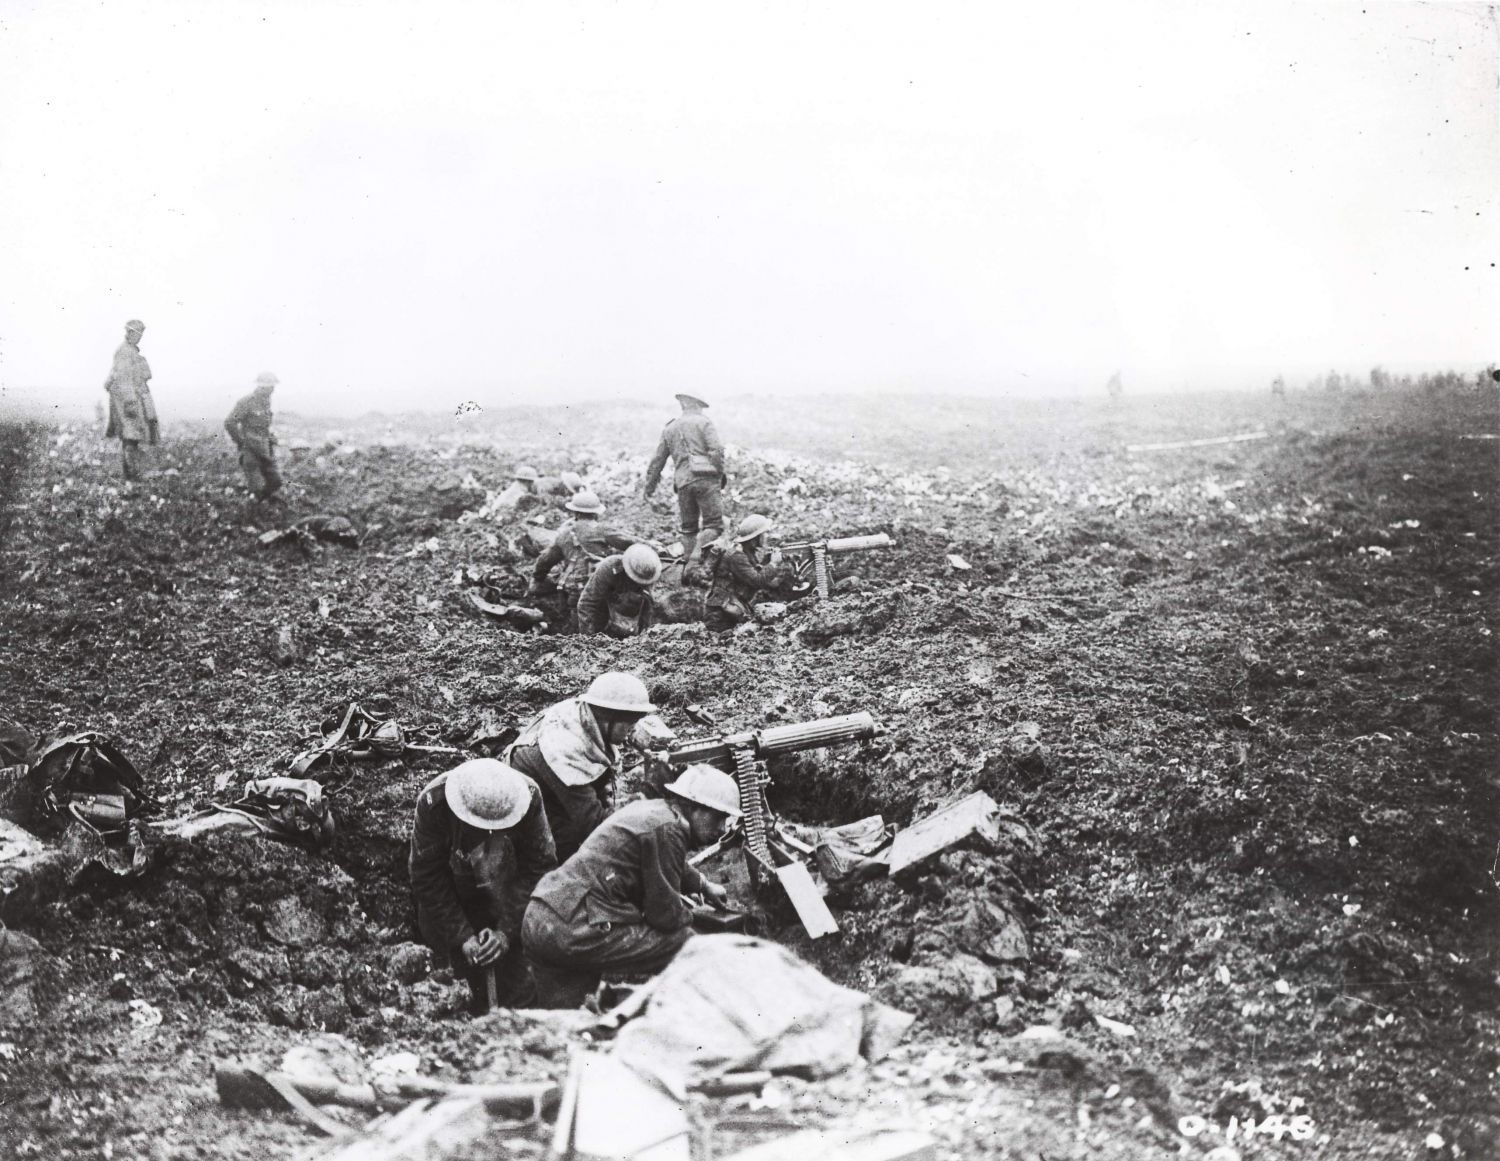
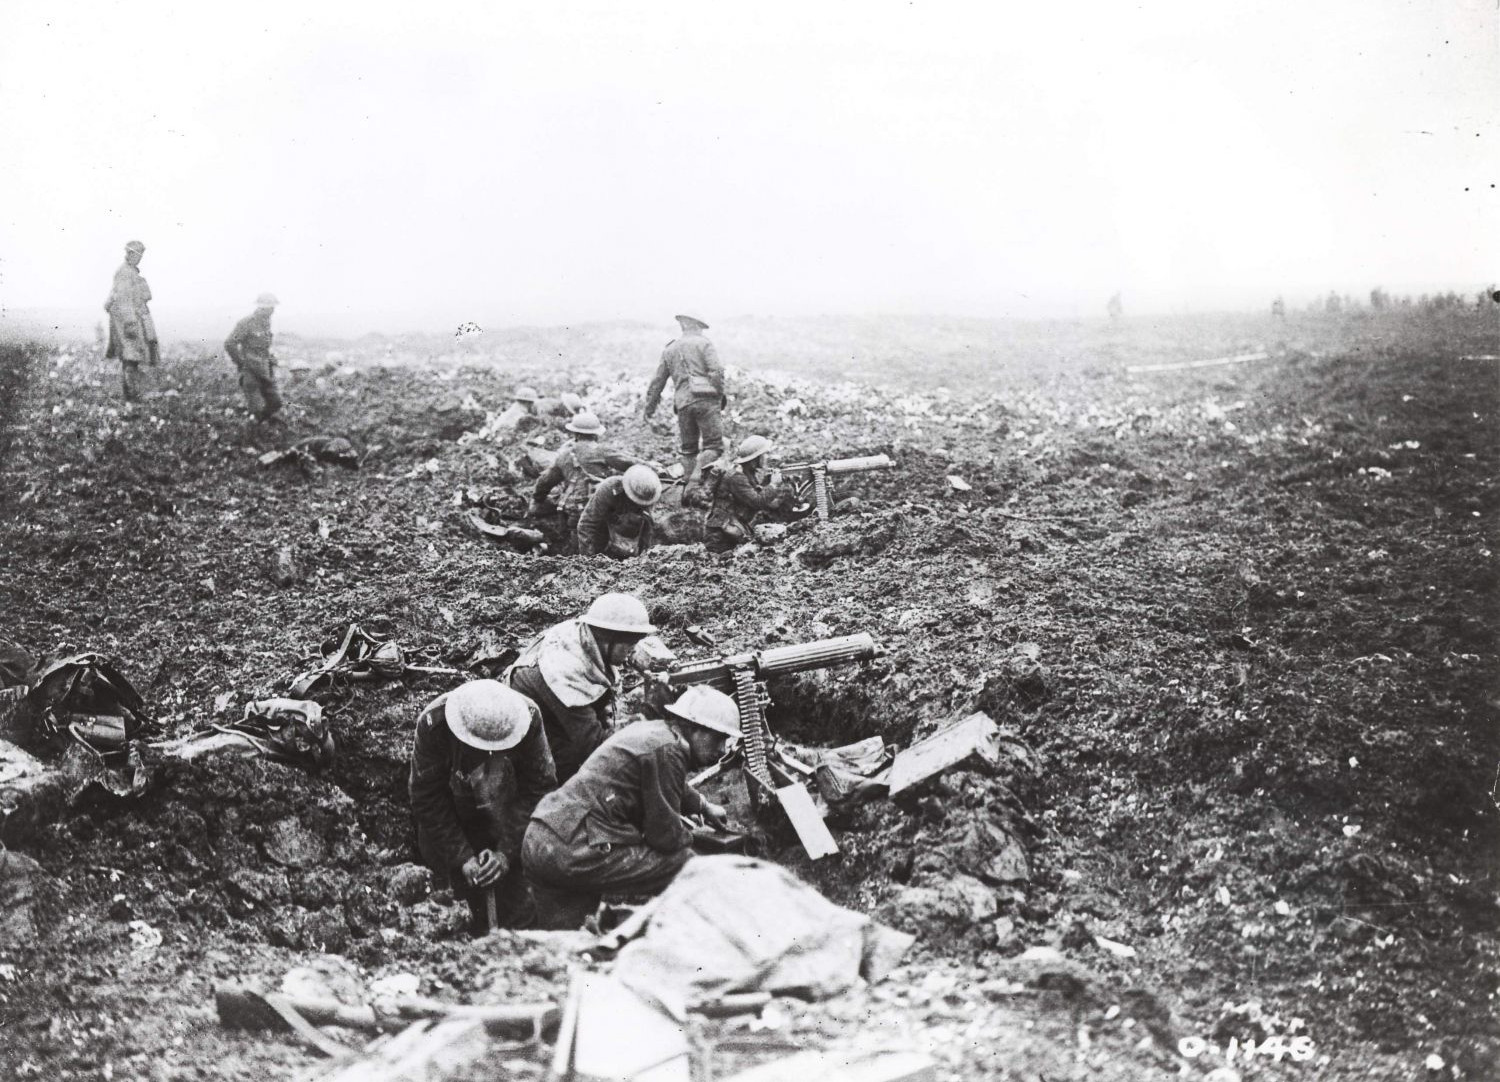
recropped all images for homepage. the archive now shows the same homepage images (didn't need a separate image for those in the end)

diff --git a/app/templates/archive_page.html b/app/templates/archive_page.html
@@ -300,7 +300,7 @@
           <div id="{{audiodoc.url}}" class="archive_episode_category_{{audiodoc.category}}">
             <a href="episodes/{{audiodoc.url}}" target="_blank">
               <div class="archive_image_padding">
-                <div class="archive_image_element" style="background: linear-gradient(rgba(0, 0, 0, 0.3), rgba(0, 0, 0, 0.8)), url('{{ audiodoc.topic_image_archive }}');background-size:cover;">
+                <div class="archive_image_element" style="background: linear-gradient(rgba(0, 0, 0, 0.3), rgba(0, 0, 0, 0.8)), url('{{ audiodoc.topic_image }}');background-size:cover;">
                   <p href="episodes/{{audiodoc.url}}" class="episode-title archive_episode_title" target="_blank">
                     {{audiodoc.topic_name | safe}}
                   </p>

diff --git a/app/static/css/archive_page.css b/app/static/css/archive_page.css
@@ -51,9 +51,20 @@ body{
   background-color: rgba(255, 194, 28, 0.8);
   border-radius: 7px;
 }
+
+
+
+
+
+
 /* set .archive_row to relative positioning to control the position/height of .archive_image_list */
 .archive_row{
   position: relative;
+}
+@media(min-width: 1200px){
+  .container{
+    width: 1200px
+  }
 }
 /* List of episode titles */
 .archive_episode_list{
